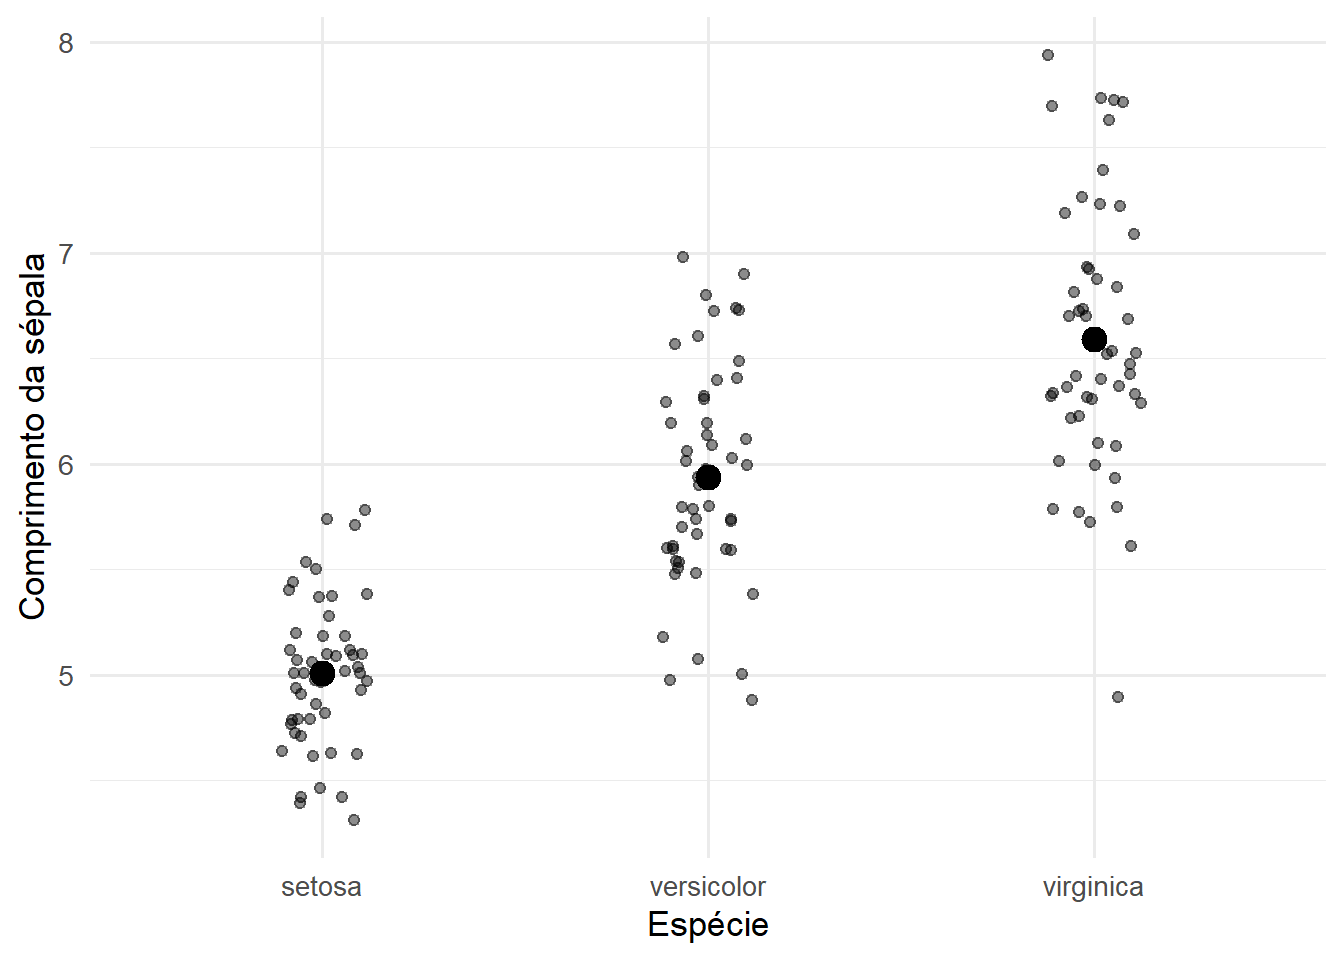
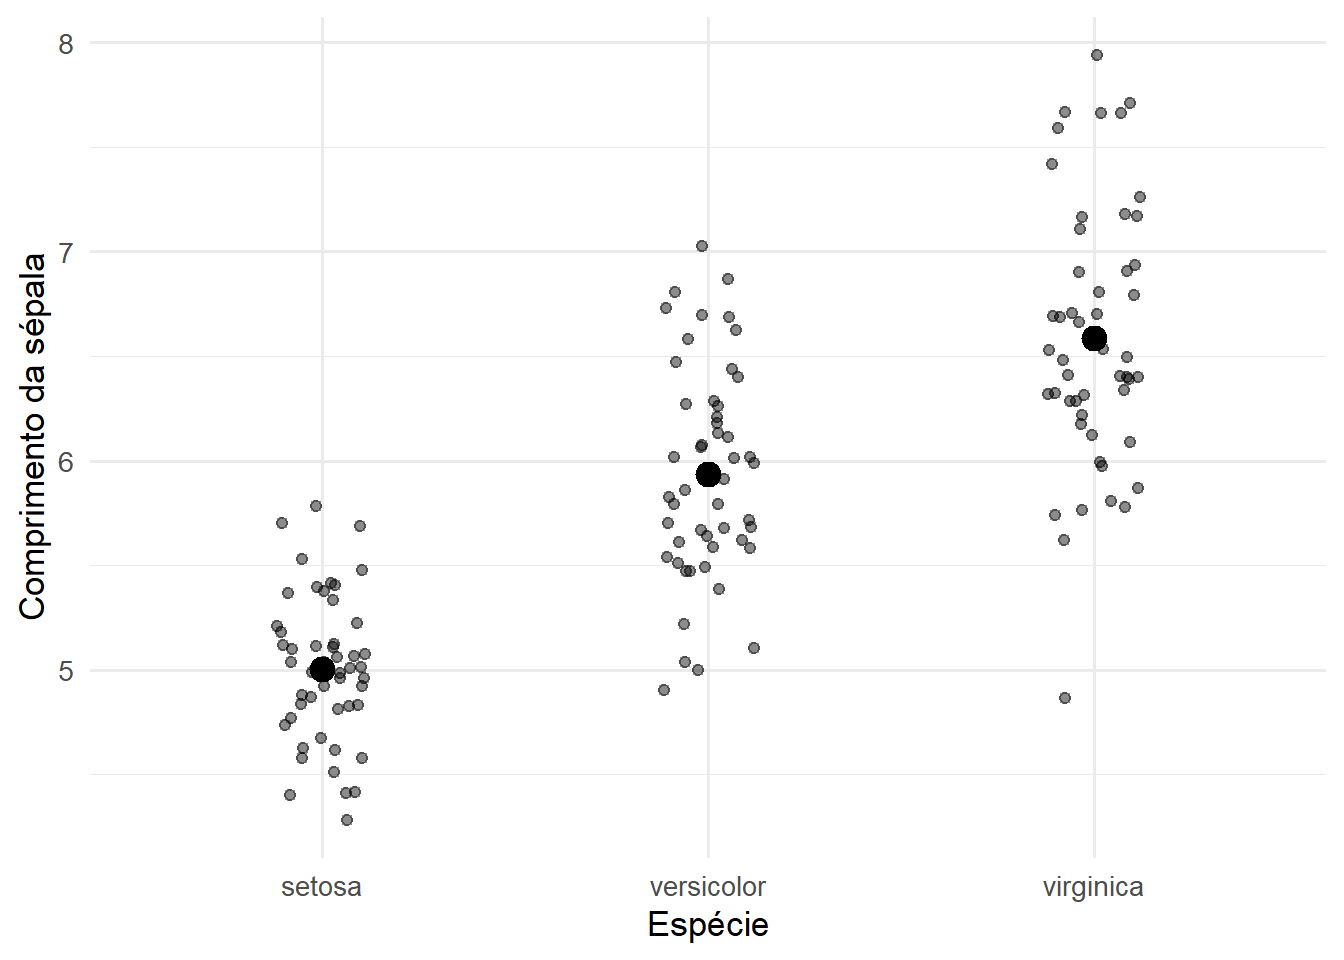
dummies

diff --git a/docs/mrlm_dummies.html b/docs/mrlm_dummies.html
@@ -762,7 +762,6 @@ E(Y_i\mid Sul)
 \beta_0+\beta_4.
 \]</span></p>
 <p>Assim, cada coeficiente compara uma categoria com a categoria de referência. Se <span class="math inline">\(\beta_3&gt;0\)</span>, por exemplo, a média da região Sudeste é maior que a média da região Norte, considerando o modelo especificado. Se <span class="math inline">\(\beta_3&lt;0\)</span>, a média da região Sudeste é menor que a média da região Norte.</p>
-<p>A escolha da categoria de referência não altera o ajuste do modelo nem os valores ajustados. O que muda é a interpretação dos coeficientes. Por isso, a categoria de referência deve ser escolhida de modo a facilitar a interpretação substantiva.</p>
 <div class="cell">
 <div class="cell-output-display">
 <div id="fig-dummies-multiplas-categorias" class="quarto-float quarto-figure quarto-figure-center anchored">
@@ -778,6 +777,12 @@ Figura&nbsp;16.2: Médias por categoria: representação visual de um fator com 
 </div>
 </div>
 <p>A figura com múltiplas categorias ajuda a visualizar que o modelo com dummies permite comparar médias entre grupos. A diferença entre categorias aparece como diferença vertical entre médias ajustadas.</p>
+<p>Importante notar que a escolha da categoria de referência não altera o ajuste do modelo nem os valores ajustados. O que muda é a interpretação dos coeficientes. Por isso, a categoria de referência deve ser escolhida de modo a facilitar a interpretação.</p>
+<p>Embora a codificação por categoria de referência seja a forma mais comum em regressão aplicada, ela não é a única maneira de representar uma variável categórica. A escolha da codificação depende do objetivo da análise e da interpretação desejada para os coeficientes.</p>
+<p>Na codificação por referência, uma categoria é omitida e passa a ser incorporada ao intercepto. Os coeficientes das demais categorias representam diferenças médias em relação a essa categoria. Essa forma é especialmente adequada quando existe um grupo de comparação natural, como um grupo controle em estudos experimentais, uma região de referência em estudos geográficos ou uma categoria padrão em aplicações econômicas e sociais.</p>
+<p>Outra possibilidade é usar contrastes por soma. Nesse caso, os coeficientes são interpretados como desvios em relação à média geral, e não como diferenças em relação a uma categoria específica. Essa codificação pode ser útil quando nenhuma categoria deve ser tratada como referência natural ou quando o interesse está em comparar cada grupo com o comportamento médio global.</p>
+<p>Também existem contrastes ortogonais, frequentemente utilizados em experimentos planejados e em análises de fatores com níveis ordenados ou estruturados. Nesses casos, os contrastes podem ser escolhidos para representar comparações específicas, como tendência linear, tendência quadrática ou diferenças entre grupos previamente definidos.</p>
+<p>Portanto, a codificação escolhida não altera o espaço gerado pelas colunas associadas ao fator, nem os valores ajustados do modelo quando as parametrizações são equivalentes. O que muda é a forma como os coeficientes são apresentados e interpretados. Em aplicações introdutórias e em grande parte dos modelos aplicados, a codificação por referência é a mais direta; em análises experimentais ou em situações nas quais o interesse recai sobre comparações específicas entre grupos, outras codificações podem ser mais informativas.</p>
 </section>
 <section id="a-armadilha-das-dummies-e-o-posto-da-matriz" class="level2" data-number="16.4">
 <h2 data-number="16.4" class="anchored" data-anchor-id="a-armadilha-das-dummies-e-o-posto-da-matriz"><span class="header-section-number">16.4</span> A armadilha das dummies e o posto da matriz</h2>
@@ -992,9 +997,8 @@ Var(\hat{\boldsymbol{\beta}})
 </section>
 <section id="ilustrações-em-r" class="level2" data-number="16.10">
 <h2 data-number="16.10" class="anchored" data-anchor-id="ilustrações-em-r"><span class="header-section-number">16.10</span> Ilustrações em R</h2>
-<p>As figuras deste capítulo têm apenas finalidade didática. O objetivo não é realizar uma análise de dados aplicada, mas visualizar como variáveis fictícias alteram a interpretação geométrica do modelo.</p>
-<p>A base <code>mtcars</code>, disponível no R, será usada para ilustrar dummies binárias e interações. A variável <code>am</code> indica o tipo de transmissão do automóvel, sendo usualmente interpretada como automática ou manual.</p>
-<p>A base <code>iris</code>, também disponível no R, será usada para ilustrar fatores com múltiplas categorias. A variável <code>Species</code> identifica três espécies de flores.</p>
+<p>A base <code>mtcars</code>, disponível no R, foi utilizada para ilustrar dummies binárias e interações. A variável <code>am</code> indica o tipo de transmissão do automóvel, sendo usualmente interpretada como automática ou manual.</p>
+<p>A base <code>iris</code>, também disponível no R, foi usada para ilustrar fatores com múltiplas categorias. A variável <code>Species</code> identifica três espécies de flores.</p>
 <p>Essas bases são utilizadas apenas para visualização. A análise completa, com tratamento de dados, diagnóstico e interpretação aplicada, será desenvolvida em atividade própria.</p>
 
 
